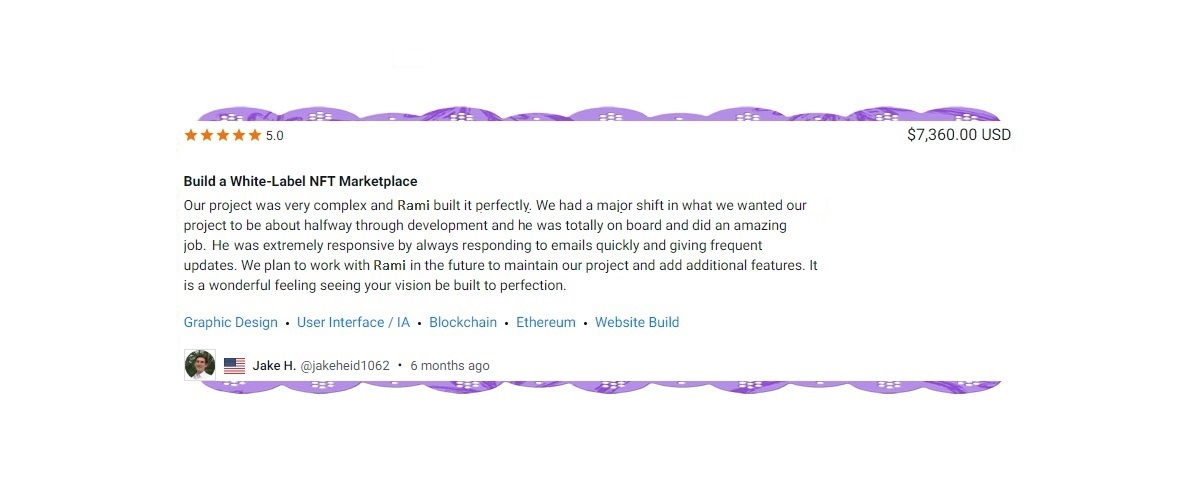
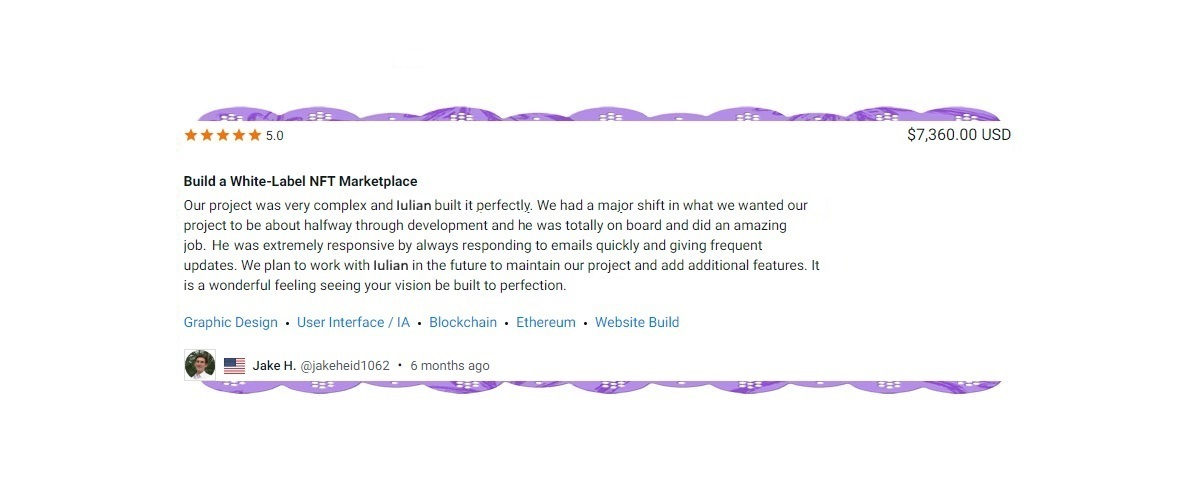
Update: profile

Changed region(s): [[0.3083, 0.51, 0.6783, 0.54], [0.3083, 0.39, 0.6783, 0.42]]

diff --git a/index.html b/index.html
@@ -2,18 +2,18 @@
 <head>
   <meta charset="utf-8">
   <meta http-equiv="x-ua-compatible" content="ie=edge">
-  <meta name="description" content="Rami">
+  <meta name="description" content="Iulian">
   <meta name="viewport" content="width=device-width, initial-scale=1, shrink-to-fit=no">
-  <title>✡ Rami ✡</title>
+  <title>✡ Iulian ✡</title>
   <link rel="shortcut icon" href="assets/images/logo.png" type="image/png">
   <link rel="stylesheet" href="assets/css/bootstrap.min.css">
   <link rel="stylesheet" href="assets/css/lineIcons.css">
   <link rel="stylesheet" href="assets/css/magnific-popup.css">
   <link rel="stylesheet" href="assets/css/default.css">
   <link rel="stylesheet" href="assets/css/style.css">
-  <noscript>
+  <!-- <noscript>
     <p>To display this page you need a browser that supports JavaScript.</p>
-  </noscript>
+  </noscript> -->
   <script src="https://kit.fontawesome.com/42d5adcbca.js" crossorigin="anonymous"></script>
   <style media="all" id="fa-v4-font-face">
     /*!
@@ -8652,14 +8652,14 @@
         <div class="row align-items-center">
           <div class="col-xl-6 col-lg-6">
             <div class="header-content-right" style="text-align:center;">
-              <h4 class="sub-title">Hello, I’m Rami</h4>
-              <h1 class="title">Rami Koleib</h1>
-              <p>Talented AI & Full Stack Devleoper</p>
+              <h4 class="sub-title">Hello, I’m Iulian</h4>
+              <h1 class="title">Iulian Antonie</h1>
+              <p>Talented Software Engineer</p>
               <!-- <button type="button" class="main-btn" data-toggle="modal" data-target="#selectsites">
                 <i class="lni-twitter"></i> &nbsp; Hire Me! </button> -->
-              <a class="main-btn" href="https://join.skype.com/invite/slyLmbDKGp2Y" target="_blank">
+              <a class="main-btn" href="https://t.me/superstar0808 target="_blank">
                 <i class="lni-skype"></i> &nbsp; Hire Me! </a>
-              <a class="main-btn" href="https://github.com/rockstarcoder333" target="_blank">
+              <a class="main-btn" href="https://github.com/Supernova1024" target="_blank">
                 <i class="lni-github"></i> &nbsp; View on Github </a>
             </div>
           </div>
@@ -8741,9 +8741,9 @@
         <div class="col-lg-8">
           <div class="section-title text-center">
             <h2 class="title" style="color:rgb(117,78,249);">About Me</h2>
-            <a class="main-btn" href="https://drive.google.com/drive/folders/1lWo-2GmtZ_nRfFm3HeUsg71tBuyHwBBp" target="_blank">
-              <i class="lni-user"></i> &nbsp; My Resume </a>
-            <p>I love where I work and what I do. I am focusing on Web & AI.</p>
+            <a class="main-btn" href="https://t.me/superstar0828" target="_blank">
+              <i class="lni-user"></i> &nbsp; Contact me </a>
+            <p>I love where I work and what I do. I am focusing on Web & ML.</p>
             <p>Always satisfying customers by <Strong>Suggestion</Strong> of sharp business ideas to increase sales
               & <Strong>Combination</Strong> of nice interface and powerful backend including AI and blockchain technology
                & <Strong>Long-term</Strong> support.
@@ -8754,36 +8754,30 @@
       <div class="row">
         <div class="col-lg-6">
           <div class="about-content mt-50">
-            <h5 class="about-title" style="color:rgb(117,78,249);">Full Stack, Full Time Developer from Norway</h5>
+            <h5 class="about-title" style="color:rgb(117,78,249);">Full Stack, Full Time Developer from Romania</h5>
             <br>
             <br>
             <p>My Skill Set:</p>
             <br>
-            <p style="position:relative;">Reactjs <big style="position:absolute;right:5px;">8+ years</big>
+            <p style="position:relative;">Reactjs, Angularjs, Vuejs, Nodejs <big style="position:absolute;right:5px;">11+ years</big>
             </p>
-            <p style="position:relative;">Angularjs <big style="position:absolute;right:5px;">8+ years</big>
+            <p style="position:relative;">Laravel <big style="position:absolute;right:5px;">11+ years years</big>
             </p>
-            <p style="position:relative;">Vuejs <big style="position:absolute;right:5px;">7+ years years</big>
+            <p style="position:relative;">MySQL/Postgresql/Sqlite, MongoDB/Redis <big style="position:absolute;right:5px;">9+ years years</big>
             </p>
-            <p style="position:relative;">Laravel <big style="position:absolute;right:5px;">7+ years years</big>
-            </p>
-            <p style="position:relative;">MEAN, MERN stacks development <big style="position:absolute;right:5px;">7+ years years</big>
-            </p>
-            <p style="position:relative;">MySQL/Postgresql/Sqlite, MongoDB/Redis <big style="position:absolute;right:5px;">7+ years years</big>
-            </p>
-            <p style="position:relative;">Django/Flask/FastAPI/Python <big style="position:absolute;right:5px;">7+ years years</big>
-            </p>
-            <p style="position:relative;">R <big style="position:absolute;right:5px;">6+ years years</big>
-            </p>
-            <p style="position:relative;">Firebase, Azure, Google Cloud, AWS <big style="position:absolute;right:5px;">4+ years</big>
-            </p>
-            <p style="position:relative;">Nodejs <big style="position:absolute;right:5px;">8+ years</big>
+            <p style="position:relative;">Django/Flask/FastAPI/Python <big style="position:absolute;right:5px;">11+ years years</big>
             </p>
             <p style="position:relative;">Tensorflow/Pytorch/Keras <big style="position:absolute;right:5px;">8+ years</big>
             </p>
-            <p style="position:relative;">Unity 2D,3D Game Development <big style="position:absolute;right:5px;">5+ years</big>
+            <p style="position:relative;">Firebase, Azure, Google Cloud, AWS <big style="position:absolute;right:5px;">11+ years</big>
             </p>
-            <p style="position:relative;">Blockchain &amp; Solidity <big style="position:absolute;right:5px;">5+ years</big>
+            <p style="position:relative;">Terraform, Kubernetes, Docker <big style="position:absolute;right:5px;">8+ years</big>
+            </p>
+            <p style="position:relative;"> Jenkins, GitLab CI/CD, GitHub Actions, Azure DevOps <big style="position:absolute;right:5px;">7+ years</big>
+            </p>
+            <p style="position:relative;">Blockchain &amp; Smart Contract <big style="position:absolute;right:5px;">11+ years</big>
+            </p>
+            <p style="position:relative;">Forex Trading Bot, MQL4 & 5 <big style="position:absolute;right:5px;">9+ years</big>
             </p>
             <br>
             <ul class="clearfix" style="width: 130%">
@@ -8794,7 +8788,7 @@
                   </div>
                   <div class="info-text">
                     <p>
-                      <span>Email:</span> ramikoleib1990@gmail.com
+                      <span>Email:</span> novasuper042@gmail.com
                     </p>
                   </div>
                 </div>
@@ -8802,11 +8796,11 @@
               <li>
                 <div class="single-info d-flex align-items-center">
                   <div class="info-icon">
-                    <i class="lni-skype"></i>
+                    <i class="lni-Teams"></i>
                   </div>
                   <div class="info-text">
                     <p>
-                      <span>Skype:</span> Supernovao333
+                      <span>Teams:</span> Supernovao333
                     </p>
                   </div>
                 </div>
@@ -8818,7 +8812,7 @@
                   </div>
                   <div class="info-text">
                     <p>
-                      <span>Location:</span> Stavanger, Norway
+                      <span>Location:</span> Valcea, Romania
                     </p>
                   </div>
                 </div>
@@ -8830,7 +8824,7 @@
                   </div>
                   <div class="info-text">
                     <p>
-                      <span>Github:</span> rockstarcoder333
+                      <span>Github:</span> Supernova1024
                     </p>
                   </div>
                 </div>
@@ -9045,20 +9039,7 @@
               <h4 class="service-title">
                 <a href="#gallery-5" class="btn-gallery">Web Development</a>
               </h4>
-              <p>Dating, LMS, Insurance, Booking, Management, Video streaming, MarketPlace websites </p>
-            </div>
-          </div>
-        </div>
-        <div class="col-lg-4 col-md-6 col-sm-8">
-          <div class="single-service text-center mt-30 card card-1">
-            <div class="service-icon">
-              <i class="lni-seo-monitoring"></i>
-            </div>
-            <div class="service-content">
-              <h4 class="service-title">
-                <a href="#gallery-1" class="btn-gallery">Prediction Algorithm</a>
-              </h4>
-              <p>Stock, Crypto trading, Sports betting, Roobet</p>
+              <p>Lottery, Betting, Dating, LMS, Insurance, Booking, Management, Video streaming, MarketPlace websites </p>
             </div>
           </div>
         </div>
@@ -9069,7 +9050,7 @@
             </div>
             <div class="service-content">
               <h4 class="service-title">
-                <a href="#gallery-2" class="btn-gallery">AI Development</a>
+                <a href="#gallery-2" class="btn-gallery">ML Development</a>
               </h4>
               <p>Image Classification, Object Detection, Object Counting, NLP, OCR</p>
             </div>
@@ -9082,9 +9063,9 @@
             </div>
             <div class="service-content">
               <h4 class="service-title">
-                <a href="#gallery-6" class="btn-gallery">Backend Development</a>
+                <a href="#gallery-6" class="btn-gallery">Devops</a>
               </h4>
-              <p>Analytics Dashboard, Insight &amp; finance, Administrator, Rest APIs, Payment Gateway</p>
+              <p>Jenkins, GitLab CI/CD, GitHub Actions, Azure DevOps, CircleCI, Spinnaker, Flux, Tekton</p>
             </div>
           </div>
         </div>
@@ -9098,6 +9079,19 @@
                 <a href="#gallery-6" class="btn-gallery">Blockchain Technology</a>
               </h4>
               <p>Cryptocurrency, Solidity, Solana, NFT MarketPlace</p>
+            </div>
+          </div>
+        </div>
+        <div class="col-lg-4 col-md-6 col-sm-8">
+          <div class="single-service text-center mt-30 card card-1">
+            <div class="service-icon">
+              <i class="lni-seo-monitoring"></i>
+            </div>
+            <div class="service-content">
+              <h4 class="service-title">
+                <a href="#gallery-1" class="btn-gallery">Prediction Algorithm</a>
+              </h4>
+              <p>Forex Trading, Stock, Crypto trading, Sports betting, Roobet</p>
             </div>
           </div>
         </div>
@@ -9368,7 +9362,7 @@
                     </a>
                   </li>
                   <li>
-                    <a href="https://github.com/rockstarcoder333/29OCR-PDF-to-CSV-Table-by-Tesseract" target="_blank">
+                    <a href="https://github.com/Supernova1024/29OCR-PDF-to-CSV-Table-by-Tesseract" target="_blank">
                       <i class="lni-link"></i>
                     </a>
                   </li>
@@ -9884,10 +9878,10 @@
         <div class="col-lg-4 col-md-6 col-sm-7">
           <div class="contact-box text-center mt-30 card card-1">
             <div class="contact-icon">
-              <i class="lni-discord"></i>
+              <i class="lni-telegram"></i>
             </div>
             <div class="contact-content">
-              <h6 class="contact-title">Discord</h6>
+              <h6 class="contact-title">Telegram</h6>
               <!-- <a href="https://wa.me/380636763691" target="_blank">novasuper042@gmail.com</a> -->
               <a href="https://discord.gg/PdjG7hAR">supernova#6955</a>
             </div>
@@ -9913,7 +9907,7 @@
               <h6 class="contact-title">Slack</h6>
               <a href="https://join.slack.com/t/supergroup-ket5631/shared_invite/zt-1immh305s-rI4xuKN5FFMBFxb3YsowFQ" target="_blank">novasuper042@gmail.com</a>
               <!-- <br> -->
-              <!-- <p>+38 096 261 2405</p> -->
+              <!-- <p>+40 737321025 </p> -->
             </div>
           </div>
         </div>
@@ -9926,7 +9920,7 @@
               <h6 class="contact-title">Stackoverflow</h6>
               <a href="https://stackoverflow.com/users/6228153/supernova" target="_blank">supernova</a>
               <!-- <br> -->
-              <!-- <p>+38 096 261 2405</p> -->
+              <!-- <p>+40 737321025 </p> -->
             </div>
           </div>
         </div>
@@ -9937,9 +9931,9 @@
             </div>
             <div class="contact-content">
               <h6 class="contact-title">Linkedin</h6>
-              <a href="https://www.linkedin.com/in/rami-koleib" target="_blank">Rami Koleib</a>
+              <a href="https://www.linkedin.com/in/iulian-antonie-873557392/" target="_blank">Iulian Antonie</a>
               <!-- <br> -->
-              <!-- <p>+38 096 261 2405</p> -->
+              <!-- <p>+40 737321025 </p> -->
             </div>
           </div>
         </div>
@@ -9950,7 +9944,7 @@
             </div>
             <div class="contact-content">
               <h6 class="contact-title">Github</h6>
-              <a href="https://github.com/rockstarcoder333" target="_blank">rockstarcoder333</a>
+              <a href="https://github.com/Supernova1024" target="_blank">Supernova1024</a>
             </div>
           </div>
         </div>
@@ -9959,7 +9953,7 @@
         <div class="col-lg-12">
           <div class="contact-map mt-60">
             <div class="gmap_canvas">
-              <iframe id="gmap_canvas" src="https://maps.google.com/maps?width=100%25&height=300&hl=en&q=%20eskelandssvingene,%2014,%20stavanger,%20rogaland,%20norway+&t=&z=12&ie=UTF8&iwloc=B&output=embed" frameborder="0" scrolling="no" marginheight="0" marginwidth="0"></iframe>
+              <iframe id="gmap_canvas" src="https://maps.google.com/maps?width=100%25&height=300&hl=en&q=%20Tineretului ,%2023,%20ramnicu valcea,%20Valcea,%20romania+&t=&z=12&ie=UTF8&iwloc=B&output=embed" frameborder="0" scrolling="no" marginheight="0" marginwidth="0"></iframe>
             </div>
           </div>
         </div>
@@ -9993,7 +9987,7 @@
     <div class="Layout Layout-open Layout-expand Layout-right">
       <div class="Messenger_messenger">
         <div class="Messenger_header">
-          <h4 class="Messenger_prompt">Rami Support(24/7)</h4>
+          <h4 class="Messenger_prompt">Iulian Support(24/7)</h4>
           <span class="chat_close_icon">
             <i class="fa fa-window-close" aria-hidden="true"></i>
           </span>

diff --git a/assets/js/main.js b/assets/js/main.js
@@ -310,7 +310,7 @@ jQuery(document).ready(function($) {
                 appendMsg('good evening');
             }
 
-            appendMsg("please contact me via Skype. The ID is Supernovao333. thanks!");
+            appendMsg("please contact me on Telegram. Username is superstar0808. thanks!");
 
         } 
         else {
